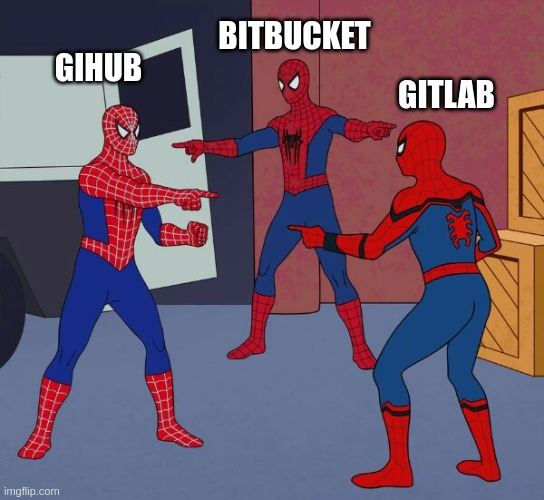
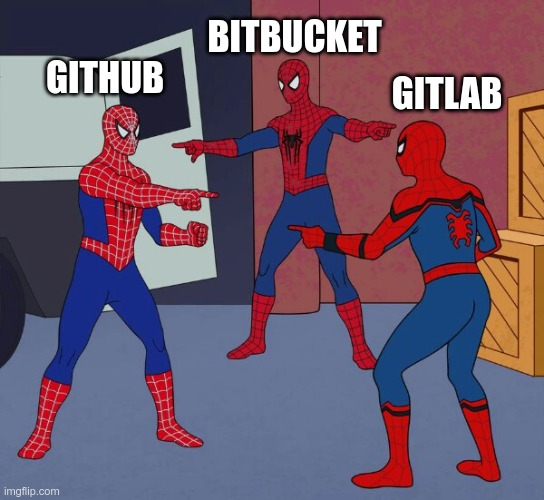
git - servers

Changed region(s): [[0.375, 0.03, 0.7188, 0.12], [0.0625, 0.09, 0.3125, 0.21], [0.6875, 0.12, 0.9375, 0.24]]

diff --git a/Clase-02/git-basics.md b/Clase-02/git-basics.md
@@ -10,7 +10,7 @@ Esto resulta inconveniente por varios motivos:
 - quizá perdamos algún cambio o corrección importante
 - tal vez una misma línea fue modificada en más de un archivo
 - si solo estamos guardando nuestros cambios en nuestra computadora y algo le sucede, perdemos el trabajo realizado
-- si estamos guardando los archivos en alguna nube, puede que no tengamos una forma sencilla de verificar que la versión en la nube está alineada con la que tenemos localmente
+- si además estamos guardando los archivos en alguna nube, puede que no tengamos una forma sencilla de verificar que la versión en la nube está alineada con la que tenemos localmente
 
 Git es un controlador de versiones que nos puede ayudar a resolver todo esto.
 
@@ -27,26 +27,29 @@ Git es un controlador de versiones que nos puede ayudar a resolver todo esto.
 
 ## Control de versiones
 
-¿Qué es?
-¿Cómo funciona?
-¿Qué tipos hay?
+Un controlador de versiones es un sistema que permite crear, modificar y eliminar archivos registrando cada uno de esos cambios en un historial, de manera tal que luego podamos revertir las modificaciones realizadas, comparar distintas versiones del archivo en el que estamos trabajando y elegir sobre cuál de ellas queremos continuar trabajando.
 
-## Servidores
+Esto es posible porque cada versión de un archivo es registrada como una foto en la que se encontraba ese proyecto en un momento del tiempo en particular.
 
-Volver a generar meme.
+Existen tres tipos de sistemas de control de cambios (VCS, por sus siglas en inglés):
 
-<div style="text-align:center">
-    <img src="git-basics-images/git-servers.jpg" width="50%">
-    <br>
-    <em>
-        Meme generado con
-        <a href=https://imgflip.com/memegenerator>
-        Meme Generator
-        </a>
-    </em>
-</div>
+- **Control de versiones local:** guarda copias de las versiones de los archivos de manera local, en nuestra computadora. Desventaja: si la computadora se rompe o algo le sucede, perdemos nuestro trabajo.
+- **Control de versiones centralizado (CVCS):** guarda copias de las versiones de los archivos en un servidor remoto. Las personas que están trabajando en un mismo proyecto pueden conectarse a dicho servidor, acceder a la versión que desean y hacer sus modificaciones. Desventaja: si por alguna razón el servidor se cae o no tenemos acceso a él, no podremos trabajar.
+- **Control de versiones distribuido (DVCS):** las copias de los archivos y su historial de cambios son guardados en un servidor remoto y, a su vez, cada integrante del equipo puede tener una copia de estos guardada localmente.
 
-Git vs. GitHub
+## Git y Servidores
+
+### ¿Qué es git?
+
+Git es un **control de versiones distribuido** creado por [Linus Torvalds](https://www.cs.helsinki.fi/u/torvalds/) en 2005. 
+
+Al utilizarlo para gestionar proyectos, las personas que trabajan en equipo (y también las que trabajan de forma individual) pueden almacenar sus proyectos de manera remota (en la nube) y, a su vez, tener una copia local en la que trabajar.
+
+Guardar la información de forma remota posibilita que otras personas accedan a dicha información y se la descarguen, en caso de tener los permisos. A su vez, es en ese repositorio remoto donde cada miembro del equipo irá subiendo sus cambios para unificarlos con los del resto y, en caso de que algo le suceda a nuestra computadora, podemos tener la tranquilidad de que toda la información estára respaldada allí.
+
+### ¿Y GitHub?
+
+GitHub es un servidor remoto al cual se conecta nuestra computadora cada vez que subimos (pusheamos) o bajamos (clonamos o pulleamos) información, entre otras cosas. Así como existe [GitHub](https://github.com/), existen otros servidores: [GitLab](https://about.gitlab.com/), [Bitbucket](https://bitbucket.org/product/), [SourceForge](https://sourceforge.net/), etc.
 
 <div style="text-align:center">
     <img src="git-basics-images/git-vs-github.webp" width="70%">
@@ -55,6 +58,19 @@ Git vs. GitHub
         Imagen tomada de
         <a href=https://blog.devmountain.com/git-vs-github-whats-the-difference>
         Devmountain
+        </a>
+    </em>
+</div>
+
+Git me brinda una serie de comandos que me permiten interactuar con el servidor en donde alojaré mis arcvhivos, pero el servidor que elija para esto es indistinto (por supuesto, siempre que sea un servidor compatible con git).
+
+<div style="text-align:center">
+    <img src="git-basics-images/git-servers.jpg" width="50%">
+    <br>
+    <em>
+        Meme generado con
+        <a href=https://imgflip.com/memegenerator>
+        Meme Generator
         </a>
     </em>
 </div>
@@ -189,6 +205,12 @@ Git vs. GitHub
 </div>
 
 - qué son
+
+## Referencias
+
+- [Pro Git Book (versión en español)](https://git-scm.com/book/en/v2)
+
+## Cheat Sheet
 
 <div style="text-align:center">
     <a href="git-cheat-sheet.pdf" target="_blank">
